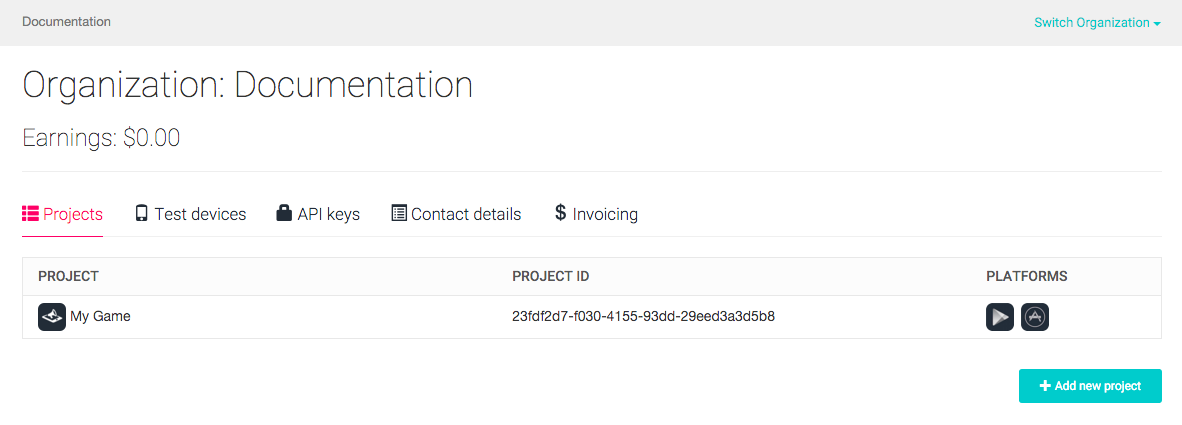
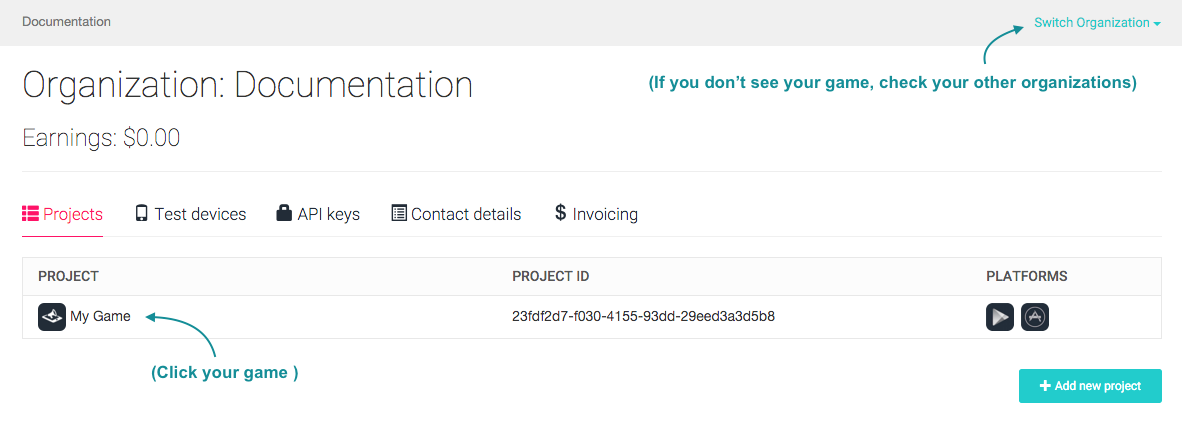
image improvements

diff --git a/servicesQuickstart.html b/servicesQuickstart.html
@@ -67,11 +67,7 @@ public class UnityAdsExample : MonoBehaviour
 
   <h3> Log into the <a target="_blank" href="https://dashboard.unityads.unity3d.com/">Dashboard</a> with your UDN Account, and find your game </h5>
 
-  <p><img src="dashboard-1.png"></p>
-
-  <h3>Select your game, then choose a platform (iOS or Android)</h5>
-
-  <p><img src="dashboard-2.png"></p>
+  <p><img src="dashboard.png"></p>
 
   <p>From here, you can modify placements and other game-specific settings.<p>
 
